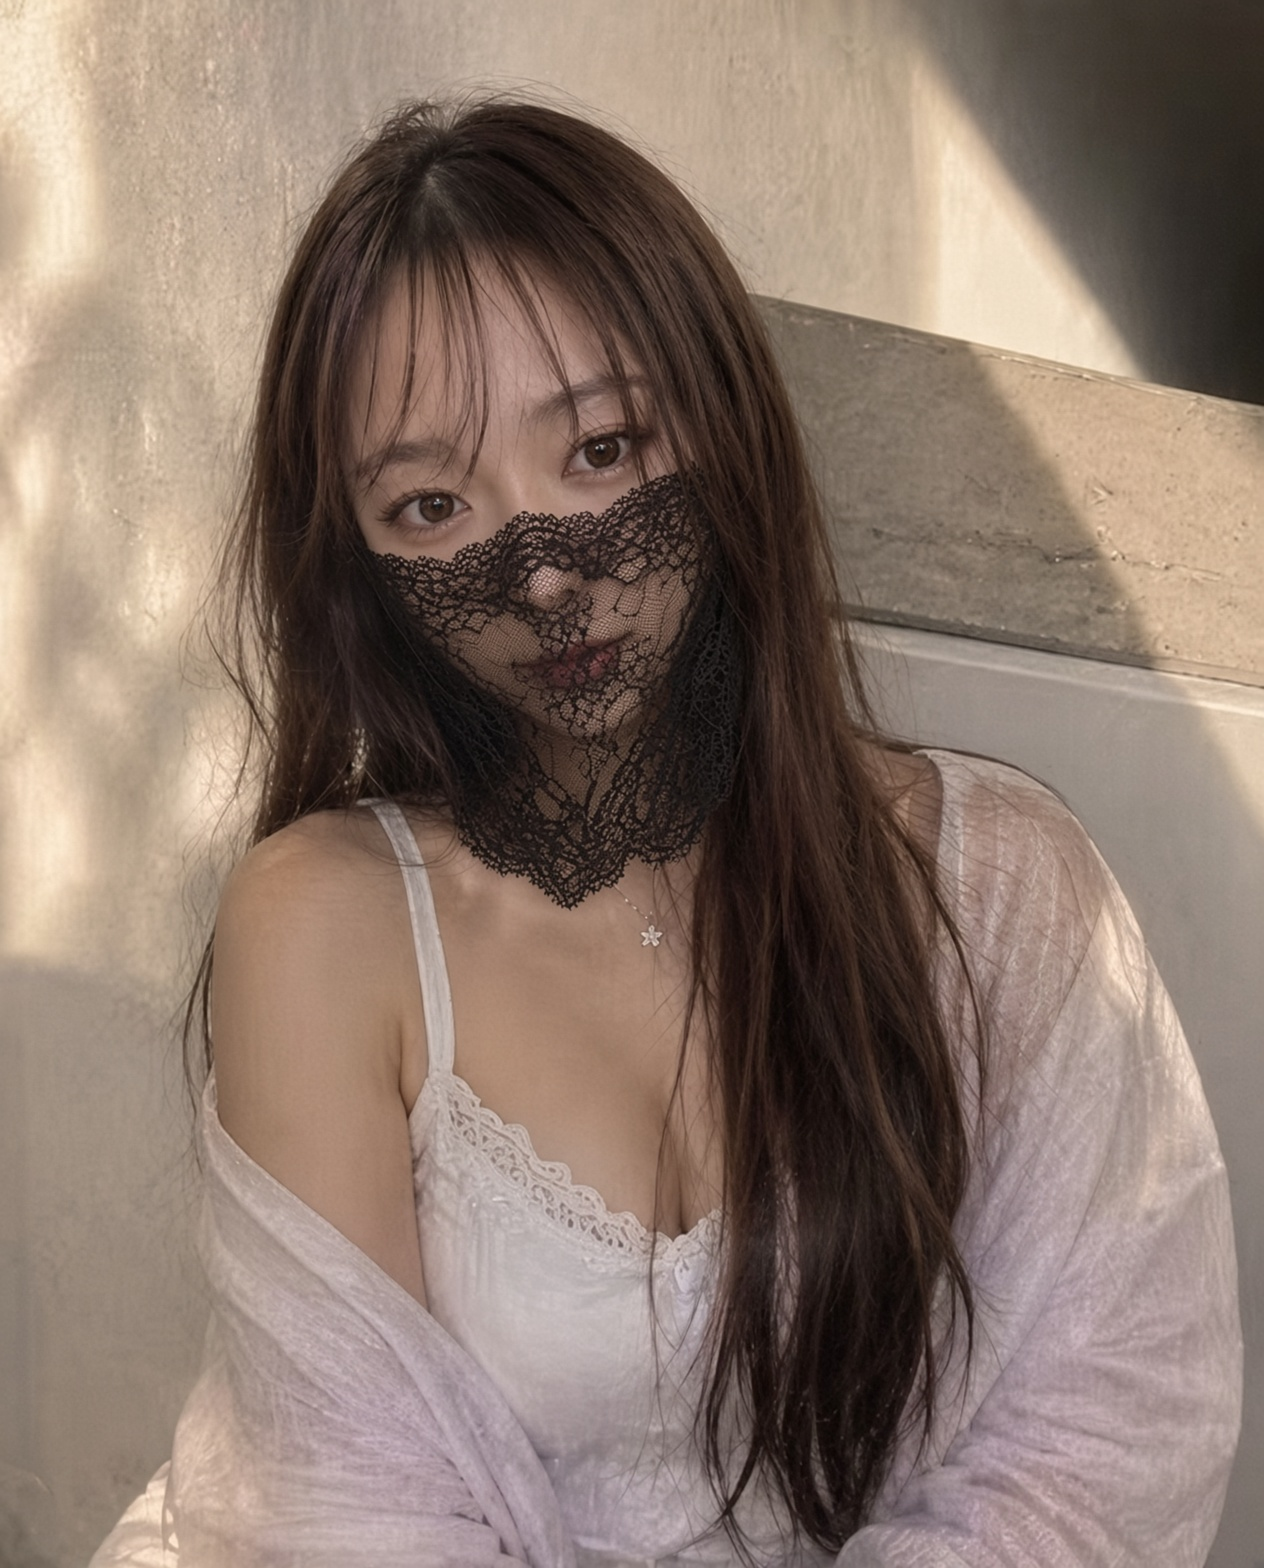
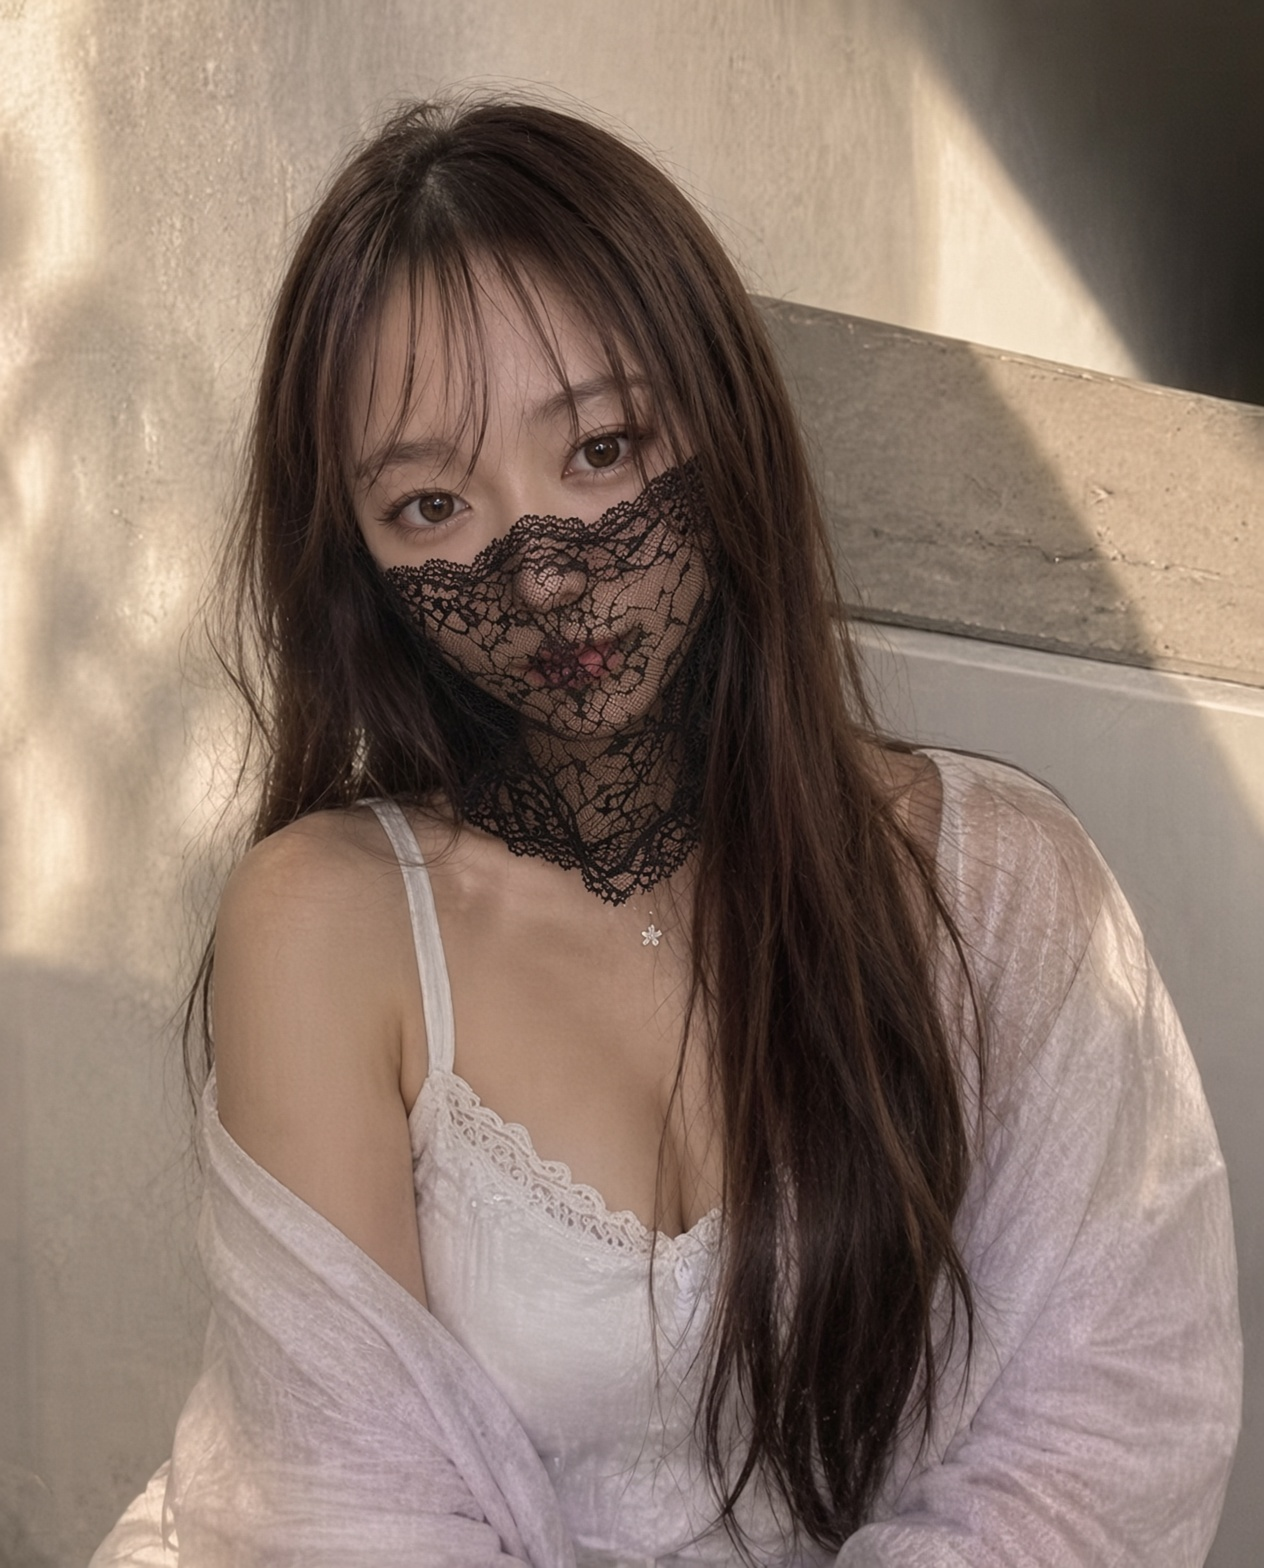
Replace website files

Changed region(s): [[0.2777, 0.2812, 0.5862, 0.5938]]

diff --git a/index.html b/index.html
@@ -72,19 +72,51 @@
         </div>
       </article>
       <article class="girl">
-        <img src="images/girl-veil-sofa.jpg" alt="Veiled girl" />
+        <img src="images/girl-sofa.jpg" alt="Sofa girl" />
         <div class="girl-body">
-          <div class="tag">VIP · veil · long legs</div>
-          <h3>The covered one</h3>
-          <p>Face half-hidden, body fully offered. She showers with you, soaps your cock, then sits on it still dripping. GFE talking, bare blowjob, one full session of sex. Add $200 if you want to finish inside her.</p>
+          <div class="tag">VIP · city night · long legs</div>
+          <h3>City-light girl</h3>
+          <p>Soft dress, crossed thighs, the kind who lets the hem ride up while she talks. She showers with you, soaps your cock, then sits on it still dripping. GFE, bare blowjob, one full session. Add $200 to finish inside.</p>
         </div>
       </article>
       <article class="girl">
-        <img src="images/girl-veil-white.jpg" alt="White lace girl" />
+        <img src="images/girl-veil-white.jpg" alt="Veiled white lace" />
         <div class="girl-body">
-          <div class="tag">Japan style · lace · soft chest</div>
+          <div class="tag">Veil · Japan style · soft chest</div>
           <h3>White lace</h3>
-          <p>Quiet voice, wet pussy. Japanese-style quickie: she strips the lace, sucks you sloppy, then lets you push in. Small moans. She likes being held down and used for one clean load — outside unless you pay for inside.</p>
+          <p>Eyes only, mouth hidden until she takes the veil off for you. Quiet voice, wet pussy. She strips the lace, sucks you sloppy, then lets you push in. One clean load — outside unless you pay for inside.</p>
+        </div>
+      </article>
+      <article class="girl">
+        <img src="images/girl-petals.jpg" alt="Rose petal bath" />
+        <div class="girl-body">
+          <div class="tag">165+ · rose bath · black lingerie</div>
+          <h3>Petal bath</h3>
+          <p>She waits in a tub of rose petals, black bra still on until you peel it. Shared bath is her thing: she soaps your cock under the petals, takes it in her mouth while the water is warm, then climbs onto your lap for one slow fuck. Ask for no-condom if you want skin on skin in the tub.</p>
+        </div>
+      </article>
+      <article class="girl">
+        <img src="images/girl-cream.jpg" alt="Cream sweater girl" />
+        <div class="girl-body">
+          <div class="tag">GFE · off-shoulder · night window</div>
+          <h3>Window girl</h3>
+          <p>Soft sweater, bare shoulder, girlfriend voice. She kisses first, then pulls the knit down so you can suck her tits while she strokes you. Good for the hour package: teasing, BBBJ, then she bends over the sofa with the city lights behind her.</p>
+        </div>
+      </article>
+      <article class="girl">
+        <img src="images/girl-blacklace.jpg" alt="Black lace girl" />
+        <div class="girl-body">
+          <div class="tag">Black lace · bedroom · deep cleavage</div>
+          <h3>Midnight lace</h3>
+          <p>Already half undressed on the bed. The black lace stays on while she sucks you, then she pulls it aside and lets you in. Quiet eyes, filthy pace. She likes being held by the hair. Finish on her chest, or pay the extra to come inside.</p>
+        </div>
+      </article>
+      <article class="girl">
+        <img src="images/girl-veil-lingerie.jpg" alt="Veiled lingerie" />
+        <div class="girl-body">
+          <div class="tag">Veil · white lingerie · full service</div>
+          <h3>The bed fairy</h3>
+          <p>White lace bra, garter, hips already on the sheets. Eyes stay on you while the veil covers her mouth — until you pay her to take it off and use it. BBBJ, shower, one hard fuck. No-condom and creampie are extras. Call 718-223-7425 and ask for the lingerie girl.</p>
         </div>
       </article>
     </div>

diff --git a/css/style.css b/css/style.css
@@ -143,6 +143,8 @@ section { padding: 88px 8vw; }
   gap: 22px;
   margin-top: 28px;
 }
+.girl-wide { grid-column: 1 / -1; }
+.girl-wide img { height: 520px; object-position: center 30%; }
 .girl {
   background: var(--card);
   border: 1px solid var(--line);
